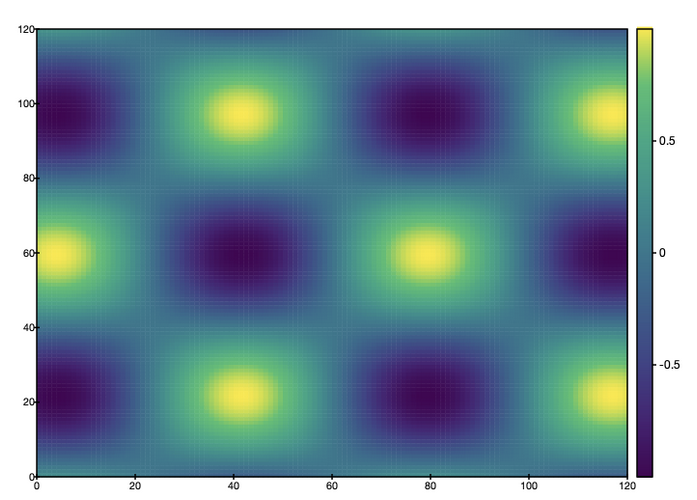
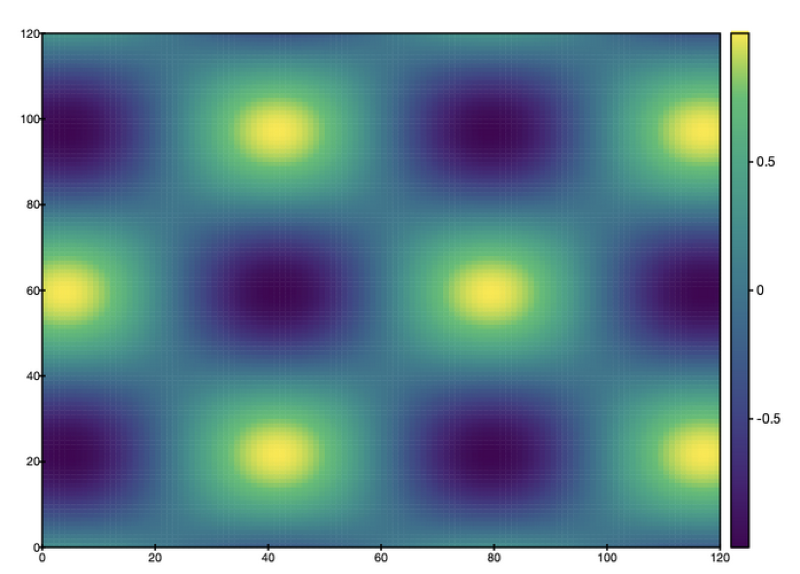
deps: stop listing GitHub-only modules as CPAN prereqs
PDL::Graphics::Cairo and PDL::IO::PNG live on GitHub, not CPAN, so they cannot
be CPAN prerequisites. Remove PDL::Graphics::Cairo from cpanfile recommends and
Makefile.PL META_MERGE; add a README 'Dependencies not on CPAN' section with
install-from-source steps. PDL and Lexical::Persistence (on CPAN) stay.

diff --git a/README.md b/README.md
@@ -87,9 +87,21 @@ notebook's `repr()` picks up by duck-typing — no coupling back to the notebook
 ## Install / run
 
 ```sh
-# prerequisites (use the same perl that has PDL — e.g. MacPorts perl5.40)
+# prerequisites (use the same perl that has PDL)
 cpanm Mojolicious Lexical::Persistence       # + PDL and PDL::Graphics::Cairo
 # Lexical::Persistence is optional; without it `my` vars don't persist across cells
+
+## Dependencies not on CPAN
+
+This notebook renders figures via **PDL::Graphics::Cairo**, which (along with
+**PDL::IO::PNG**) is distributed on GitHub, not CPAN. Install from source:
+
+    git clone https://github.com/goosh-gh/PDL-Graphics-Cairo.git
+    cd PDL-Graphics-Cairo && perl Makefile.PL && make && make install
+
+(Or add its `lib/` to PERL5LIB instead of installing.) PDL itself is on CPAN
+(`cpanm PDL`). Without PDL::Graphics::Cairo the notebook still runs — you just
+get no inline figures.
 
 # run from the checkout
 export PERL5LIB=~/src/PDL_Graphics_Cairo/lib:$PERL5LIB   # + your own module paths